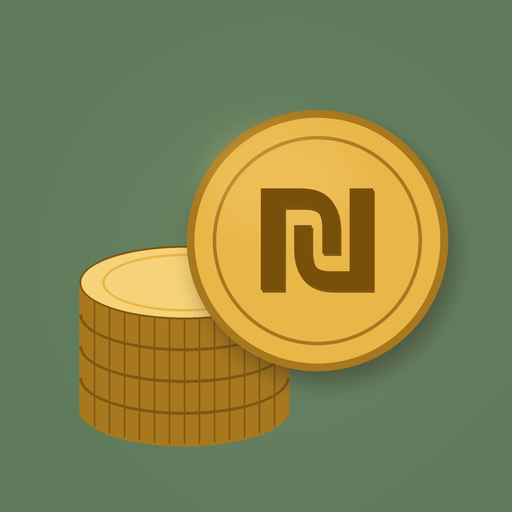
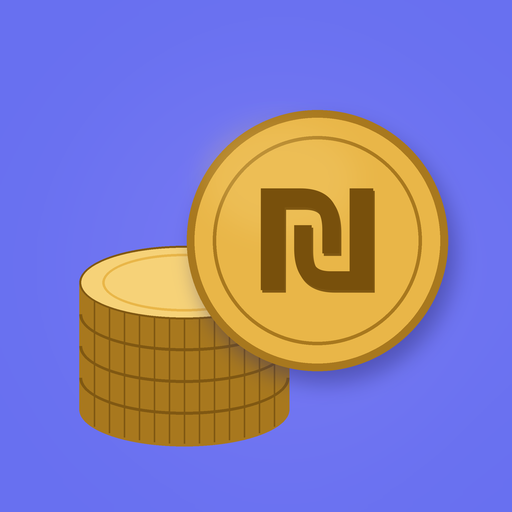
עיצוב מודרני ועדין: Heebo, פריווינקל, כרטיסים רכים, פסטלים

diff --git a/src/styles.css b/src/styles.css
@@ -1,11 +1,13 @@
 :root {
-  /* לבן, ירוק עתיק, חום, חמרה, כתום */
-  --bg: #faf7f2; --surface: #ffffff; --ink: #5a4434; --ink-2: #806a5a; --ink-3: #ab998b;
-  --line: #ede5db; --accent: #5e7a5b; --accent-ink: #fff; --accent-soft: rgba(94, 122, 91, .13);
-  --up: #5e7a5b; --down: #c0603f; --warn: #d4862a;
-  --t-stocks: #5e7a5b; --t-sp: #e39a45; --t-solid: #c8ad94;
-  --serif: 'Rubik', 'Assistant', 'Segoe UI', Arial, sans-serif;
-  --sans: 'Assistant', 'Segoe UI', Arial, sans-serif;
+  /* מודרני ועדין: אפור-לבן, פריווינקל, מנטה, אלמוג, ענבר */
+  --bg: #f5f6fa; --surface: #ffffff; --track: #eceef5; --ink: #1e2233; --ink-2: #5b6178; --ink-3: #9aa0b4;
+  --line: #eceef4; --accent: #6870f0; --accent-ink: #fff; --accent-soft: rgba(104, 112, 240, .10);
+  --up: #1f9e74; --down: #e0607a; --warn: #e5a33b;
+  --t-stocks: #6870f0; --t-sp: #f2b35e; --t-solid: #a9b2c7;
+  --shadow: 0 1px 2px rgba(30, 34, 51, .04), 0 8px 24px rgba(30, 34, 51, .05);
+  --radius: 18px;
+  --serif: 'Heebo', 'Segoe UI', Arial, sans-serif;
+  --sans: 'Heebo', 'Segoe UI', Arial, sans-serif;
   color-scheme: light;
   box-sizing: border-box;
   padding-top: env(safe-area-inset-top, 0px);
@@ -13,10 +15,11 @@
 }
 @media (prefers-color-scheme: dark) {
   :root {
-    --bg: #1c1713; --surface: #25201b; --ink: #f2ebe3; --ink-2: #cdbfb2; --ink-3: #94857a;
-    --line: #3a312a; --accent: #9dba90; --accent-ink: #1c1713; --accent-soft: rgba(157, 186, 144, .15);
-    --up: #9dba90; --down: #e08a6a; --warn: #e8a24e;
-    --t-stocks: #9dba90; --t-sp: #e8a24e; --t-solid: #b08d70;
+    --bg: #0f1117; --surface: #171a23; --track: #20232e; --ink: #eceef6; --ink-2: #a7acc0; --ink-3: #6f7489;
+    --line: #242836; --accent: #8f95ff; --accent-ink: #0f1117; --accent-soft: rgba(143, 149, 255, .14);
+    --up: #4cc79b; --down: #ff8a9e; --warn: #f5c27a;
+    --t-stocks: #8f95ff; --t-sp: #f5c27a; --t-solid: #6d768d;
+    --shadow: 0 1px 2px rgba(0, 0, 0, .3), 0 8px 24px rgba(0, 0, 0, .25);
     color-scheme: dark;
   }
 }
@@ -386,3 +389,63 @@ tr.clickable:hover, tr.clickable:focus-visible { background: var(--accent-soft);
   .tx-row .plan-btn { order: 3; max-width: 100%; }
   .plan-tx li { flex-wrap: wrap; }
 }
+
+
+/* ===== modern soft theme ===== */
+body { font-size: 15.5px; }
+h1, h2, h3 { letter-spacing: -.01em; }
+h1, h2 { font-weight: 700; }
+.wordmark { font-weight: 800; letter-spacing: -.03em; background: linear-gradient(120deg, var(--accent), #a48bf5 60%, #f08fa6); -webkit-background-clip: text; background-clip: text; color: transparent; }
+.top { position: sticky; top: 0; z-index: 10; background: color-mix(in srgb, var(--surface) 82%, transparent); -webkit-backdrop-filter: saturate(1.4) blur(14px); backdrop-filter: saturate(1.4) blur(14px); border-bottom: 1px solid var(--line); }
+body::before { content: ""; position: fixed; inset: 0 0 auto; height: env(safe-area-inset-top, 0px); z-index: 11; background: color-mix(in srgb, var(--surface) 82%, transparent); -webkit-backdrop-filter: blur(14px); backdrop-filter: blur(14px); }
+.tabs button { border-radius: 10px; }
+.tabs button.on { background: var(--accent-soft); color: var(--accent); }
+.demo-banner { background: color-mix(in srgb, var(--t-sp) 22%, var(--surface)); color: var(--ink); font-weight: 600; }
+
+.btn { border-radius: 12px; transition: transform .12s ease, box-shadow .12s ease, background .12s ease; }
+.btn.primary { box-shadow: 0 4px 14px color-mix(in srgb, var(--accent) 30%, transparent); }
+.btn.primary:hover { filter: none; transform: translateY(-1px); }
+.btn.ghost { background: var(--surface); border-color: var(--line); box-shadow: 0 1px 2px rgba(30, 34, 51, .04); }
+input, select { border-radius: 12px; border-color: var(--line); }
+.seg { background: var(--track); border: 0; padding: 4px; border-radius: 12px; }
+.seg button { border-radius: 9px; }
+.seg button.on { background: var(--surface); color: var(--ink); box-shadow: 0 1px 3px rgba(30, 34, 51, .12); }
+@media (prefers-color-scheme: dark) { .seg button.on { background: #2a2e3c; } }
+
+/* כרטיסים */
+.panel, .cap, .filter-bar, .snap-form, .plan-card, .modal, .login-inner .code-form, .table-wrap,
+.fund-list, .month-cats, .plan-subs, .merchants, .rec-list, .up-month, .empty {
+  background: var(--surface); border: 1px solid var(--line); border-radius: var(--radius); box-shadow: var(--shadow);
+}
+.fund-list, .month-cats, .plan-subs, .merchants, .rec-list { padding: .25rem .9rem; border-top: 1px solid var(--line); }
+.fund-list li:last-child, .month-cats > li:last-child, .plan-subs > li:last-child, .merchants li:last-child, .rec-list li:last-child, .up-month li:last-child { border-bottom: 0; }
+.table-wrap { padding: .5rem .9rem; }
+.dash-block .table-wrap { margin-top: 1rem; }
+.up-month { padding: 1rem 1.1rem .4rem; }
+.up-month-head { border-bottom-color: var(--line); }
+.login-inner .code-form { padding: 1.1rem 1.25rem; border-top: 1px solid var(--line); }
+.empty { padding: 2.5rem 1.25rem; }
+.empty.small { padding: 1.25rem; }
+.fund-row:hover, .mc-row:hover, .m-row:hover, tr.clickable:hover { background: color-mix(in srgb, var(--accent) 5%, transparent); }
+.month-cats li.open, .plan-subs li.open, .merchants li.open { background: color-mix(in srgb, var(--accent) 4%, transparent); }
+
+/* אריחי מספרים */
+.stats, .month-summary { border: 0; padding: 0; gap: .75rem; margin: 1.5rem 0; }
+.stats > div, .month-summary > div { background: var(--surface); border: 1px solid var(--line); border-radius: 16px; padding: .9rem 1rem; box-shadow: var(--shadow); }
+.headline { border-bottom: 0; padding-bottom: .5rem; }
+.big strong { font-weight: 700; letter-spacing: -.03em; }
+.facts dd, .stats dd, .month-summary dd { font-weight: 700; letter-spacing: -.01em; }
+.up-total { background: linear-gradient(135deg, color-mix(in srgb, var(--accent) 12%, var(--surface)), color-mix(in srgb, #f08fa6 12%, var(--surface))); border: 1px solid var(--line); border-radius: var(--radius); }
+.up-total strong { font-weight: 700; }
+.recurring { border-top: 1px solid var(--line); }
+
+/* גרפים ופסים */
+.sbar-stack span:last-child { border-radius: 4px 4px 0 0; }
+.sbar-pair span { border-radius: 4px 4px 0 0; }
+.b-in { background: color-mix(in srgb, var(--up) 75%, white); } .b-out { background: color-mix(in srgb, var(--down) 75%, white); }
+.alloc-bar, .mc-bar, .cap-bar, .split-bar { background: var(--track); }
+.tag { background: var(--accent-soft); color: var(--accent); }
+.plan-btn.on { background: color-mix(in srgb, #a48bf5 18%, transparent); }
+.month-picker .btn { border-radius: 50%; }
+.modal { border: 0; }
+.modal-back { background: rgba(20, 22, 35, .35); -webkit-backdrop-filter: blur(4px); backdrop-filter: blur(4px); }

diff --git a/src/expenseCalc.js b/src/expenseCalc.js
@@ -1,7 +1,7 @@
 // צבעי בסיס ואחריהם פסטלים — לקטגוריות ולגרפים
 export const PALETTE = [
-  '#5e7a5b', '#c9714f', '#e39a45', '#9c7a5e', '#a8c09a', '#f0b49a',
-  '#f3cd8a', '#cdb39b', '#9fc3b9', '#dba7b5', '#b8b2d8', '#e3d48f',
+  '#7b83f5', '#5cc8a8', '#f4b06a', '#f08fa6', '#a88bf5', '#62bfe6',
+  '#c7d36b', '#f6a6cf', '#9aa7bd', '#7fd6b6', '#f7cf6a', '#c6b9fb',
 ];
 export const REST_COLOR = 'var(--t-solid)';
 
@@ -18,7 +18,7 @@ const mDate = (m) => { const [y, mm] = m.split('-'); return new Date(+y, +mm - 1
 export const monthShort = (m) => mDate(m).toLocaleDateString('he-IL', { month: 'short' }).replace('׳', '').replace('.', '');
 export const monthLong = (m) => mDate(m).toLocaleDateString('he-IL', { month: 'long', year: 'numeric' });
 export const monthName = (m) => mDate(m).toLocaleDateString('he-IL', { month: 'long' });
-export const INCOME_COLORS = ['#5e7a5b', '#a8c09a', '#9fc3b9', '#e39a45', '#f3cd8a'];
+export const INCOME_COLORS = ['#1f9e74', '#5cc8a8', '#7fd6b6', '#62bfe6', '#a9e3cf'];
 
 const sum = (a) => a.reduce((x, y) => x + y, 0);
 

diff --git a/index.html b/index.html
@@ -6,11 +6,11 @@
     <link rel="icon" type="image/png" sizes="32x32" href="/favicon-32.png" />
     <link rel="apple-touch-icon" href="/apple-touch-icon.png" />
     <link rel="manifest" href="/manifest.webmanifest" />
-    <meta name="theme-color" content="#5e7a5b" />
+    <meta name="theme-color" content="#6870f0" />
     <meta name="apple-mobile-web-app-title" content="המאזן" />
     <link rel="preconnect" href="https://fonts.googleapis.com" />
     <link rel="preconnect" href="https://fonts.gstatic.com" crossorigin />
-    <link href="https://fonts.googleapis.com/css2?family=Assistant:wght@400;600;700&family=Rubik:wght@400;500;600;700&display=swap" rel="stylesheet" />
+    <link href="https://fonts.googleapis.com/css2?family=Heebo:wght@400;500;600;700;800&display=swap" rel="stylesheet" />
     <title>המאזן</title>
   </head>
   <body>
